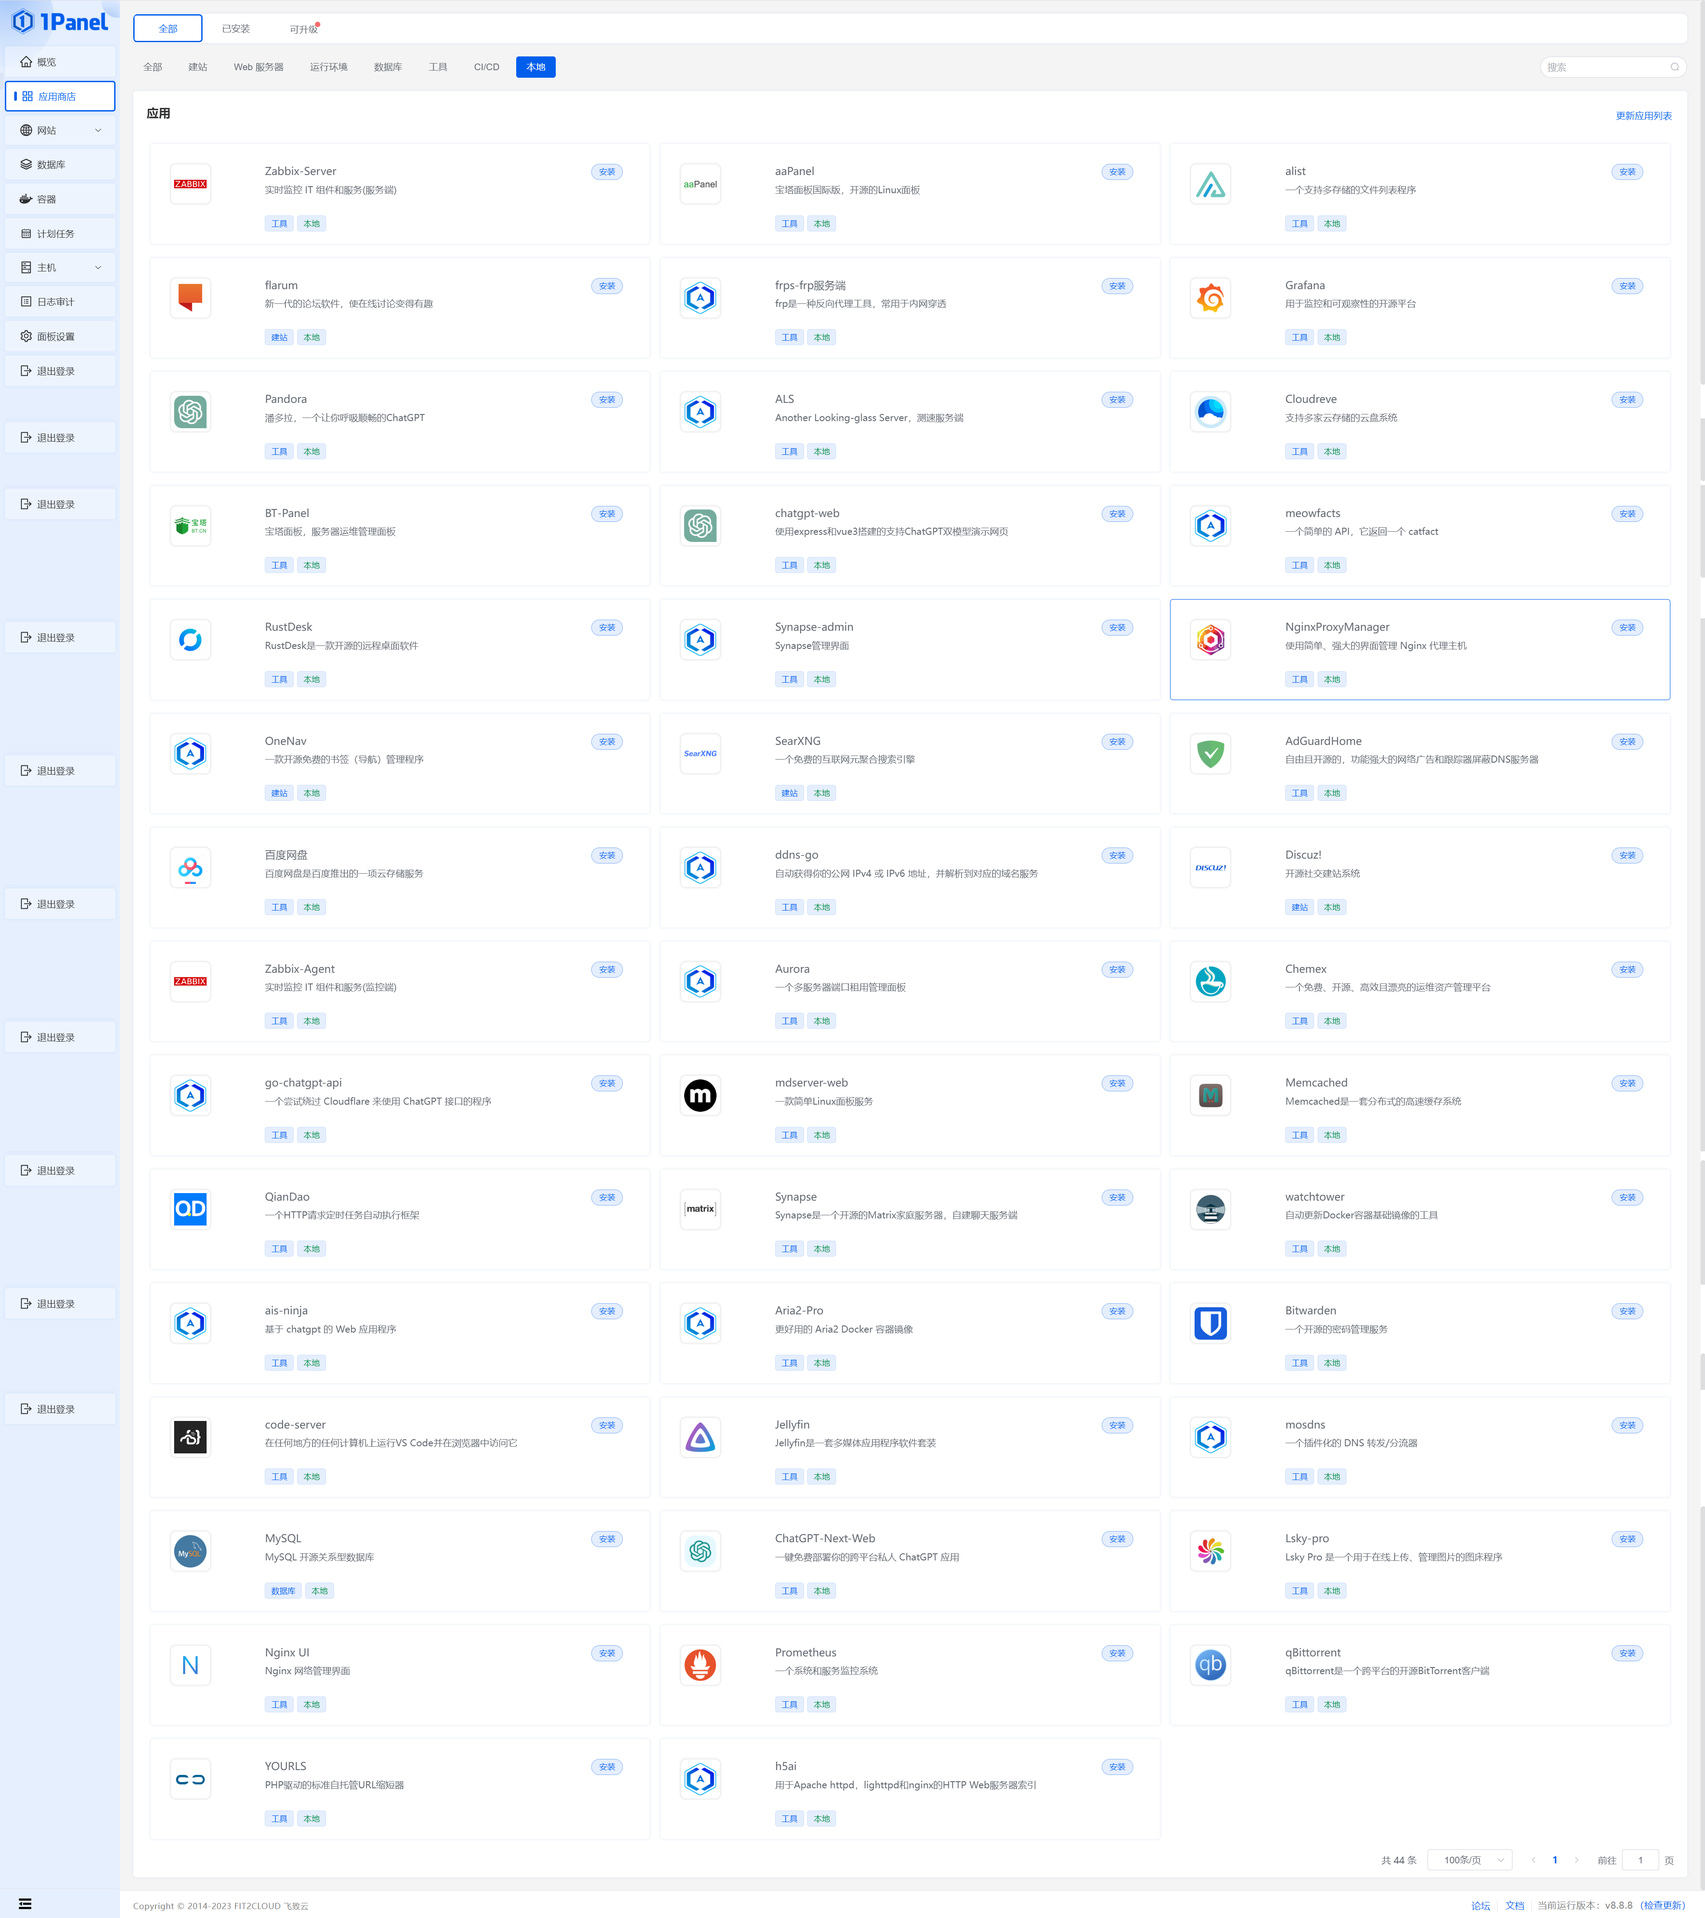
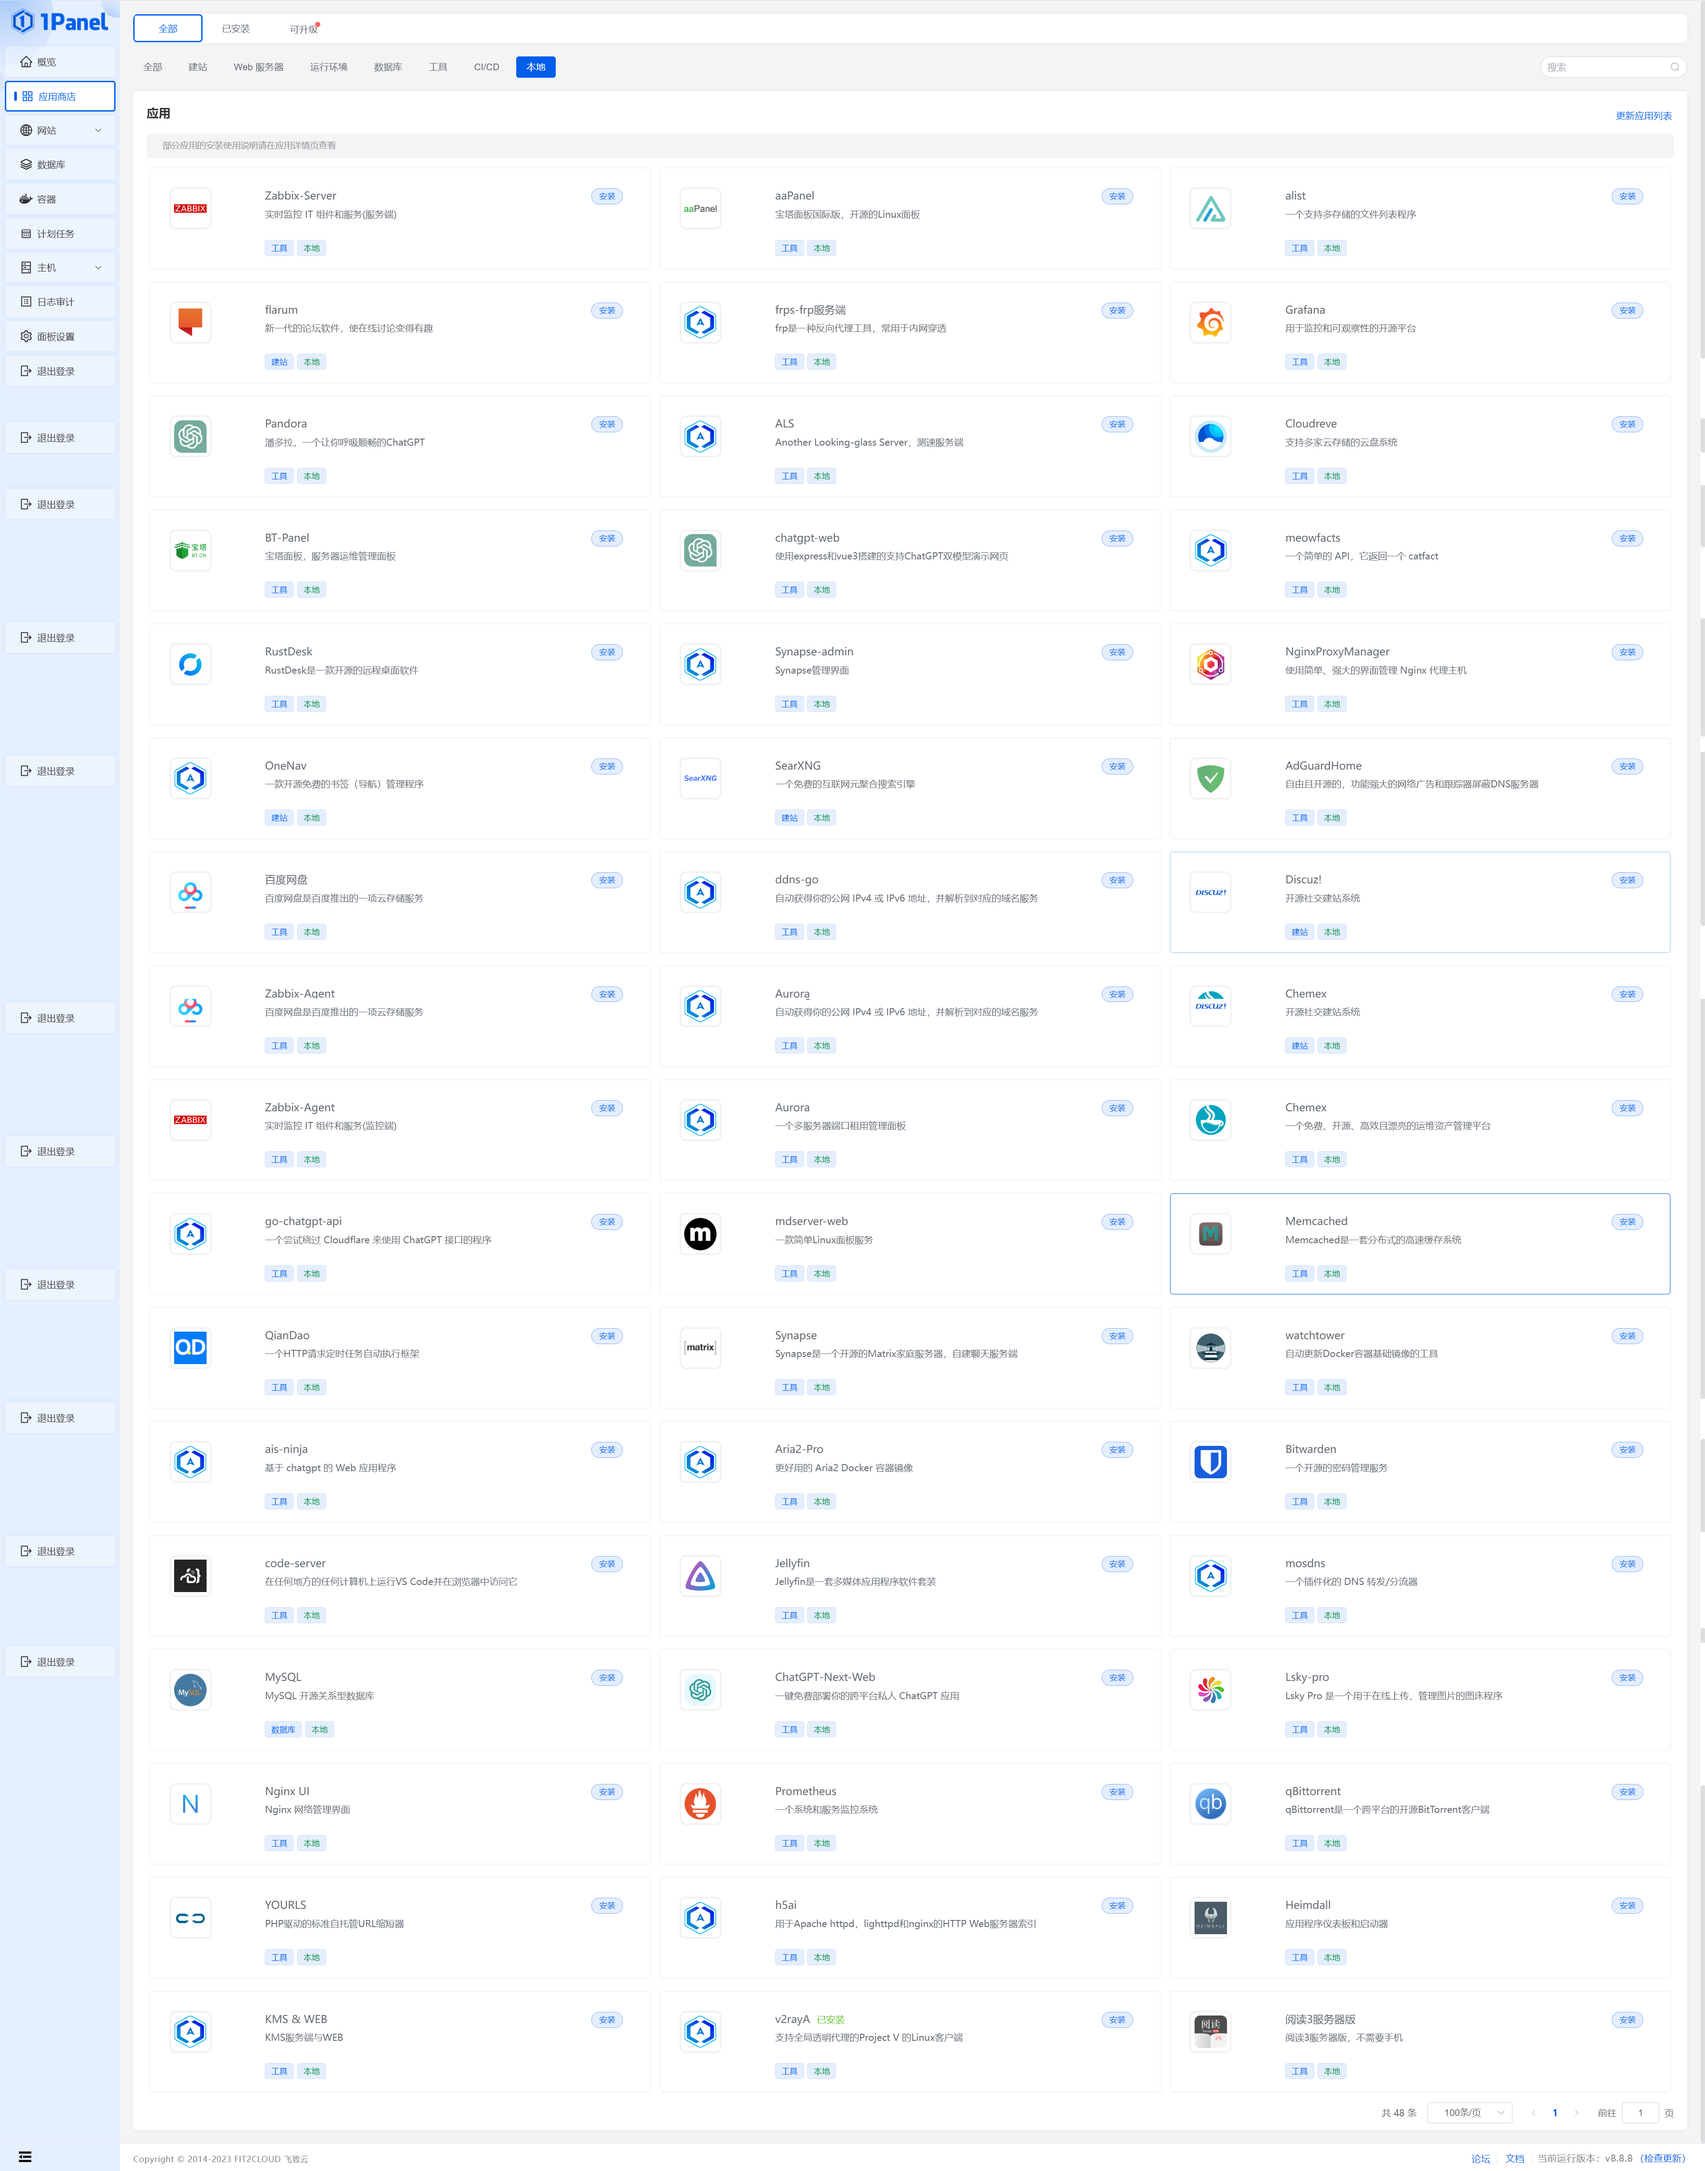
feat:添加阅读3服务器版到列表

diff --git a/apps/reader/README.md b/apps/reader/README.md
@@ -1,0 +1,87 @@
+# reader
+
+阅读3服务器版，不需要手机。
+
+在线体验 👉 [https://reader.htmake.com](https://reader.htmake.com)
+
+加入TG群(限时开放) 👉 [https://t.me/+pQ8HDlANPZ84ZWNl](https://t.me/+pQ8HDlANPZ84ZWNl)
+
+关注公众号，查看教程和书源👇
+
+![](https://raw.githubusercontent.com/hectorqin/reader/master/imgs/mpcode.png)
+
+> 注意❗
+>
+> Reader 完整源码仅开放到 v2.5.4，新版本当前仅开放部分开源源码，见 https://github.com/hectorqin/reader-legado.
+
+<details><summary>免责声明（Disclaimer）</summary>
+阅读是一款提供网络文学搜索的工具，为广大网络文学爱好者提供一种方便、快捷舒适的试读体验。
+
+当您搜索一本书的时，阅读会将该书的书名以关键词的形式提交到各个第三方网络文学网站。各第三方网站返回的内容与阅读无关，阅读对其概不负责，亦不承担任何法律责任。任何通过使用阅读而链接到的第三方网页均系他人制作或提供，您可能从第三方网页上获得其他服务，阅读对其合法性概不负责，亦不承担任何法律责任。第三方搜索引擎结果根据您提交的书名自动搜索获得并提供试读，不代表阅读赞成或被搜索链接到的第三方网页上的内容或立场。您应该对使用搜索引擎的结果自行承担风险。
+
+阅读不做任何形式的保证：不保证第三方搜索引擎的搜索结果满足您的要求，不保证搜索服务不中断，不保证搜索结果的安全性、正确性、及时性、合法性。因网络状况、通讯线路、第三方网站等任何原因而导致您不能正常使用阅读，阅读不承担任何法律责任。阅读尊重并保护所有使用阅读用户的个人隐私权，您注册的用户名、电子邮件地址等个人资料，非经您亲自许可或根据相关法律、法规的强制性规定，阅读不会主动地泄露给第三方。
+
+阅读致力于最大程度地减少网络文学阅读者在自行搜寻过程中的无意义的时间浪费，通过专业搜索展示不同网站中网络文学的最新章节。阅读在为广大小说爱好者提供方便、快捷舒适的试读体验的同时，也使优秀网络文学得以迅速、更广泛的传播，从而达到了在一定程度促进网络文学充分繁荣发展之目的。阅读鼓励广大小说爱好者通过阅读发现优秀网络小说及其提供商，并建议阅读正版图书。任何单位或个人认为通过阅读搜索链接到的第三方网页内容可能涉嫌侵犯其信息网络传播权，应该及时向阅读提出书面权力通知，并提供身份证明、权属证明及详细侵权情况证明。阅读在收到上述法律文件后，将会依法尽快断开相关链接内容。
+</details>
+
+<details><summary>功能说明</summary>
+  书源管理 <br/>
+- 书架管理 <br/>
+- 书架布局 <br/>
+- 搜索 <br/>
+- 书海 <br/>
+- 看书 <br/>
+- 移动端适配 <br/>
+- 换源 <br/>
+- 翻页方式 <br/>
+- 手势支持 <br/>
+- 自定义主题 <br/>
+- 自定义样式 <br/>
+- WebDAV同步 <br/>
+- 文字替换过滤 <br/>
+- 听书<仅部分浏览器支持，手机端会因为锁屏而失效> <br/>
+- 用户配置备份恢复 <br/>
+- 支持漫画 <br/>
+- 支持音频 <br/>
+- 书源失效检测 <br/>
+- 导入本地TXT、EPUB、UMD、PDF格式的书籍 <br/>
+- 书籍分组 <br/>
+- RSS订阅 <br/>
+- 定时更新书架 <br/>
+- 并发搜书 <br/>
+- 本地书仓 <br/>
+- 支持kindle阅读 <br/>
+</details>
+
+## 下载与安装
+
+详见[文档](https://github.com/hectorqin/reader/blob/master/doc.md)
+
+## TODO
+
+- [x] 定时更新书架书籍章节
+- [x] 多源并发搜索书籍
+- [x] 并发更新书架章节
+- [x] 并发搜索书籍来源
+- [x] WebDav同步
+- [x] 导入本地书籍，支持epub
+- [x] 阅读3核心兼容。已最大可能兼容，支持使用webview，支持使用javascript。
+- [x] 支持RSS订阅
+
+## 问题
+
+- 部分使用了 `Javascript` 的书源可能会报错，如调用原生java等高级Javascript功能
+- `webview` 功能需要另外部署接口，不支持 `sourceRegex` 匹配资源响应
+- 不支持书源登录功能
+
+## 感谢
+
+- 项目初期参考了 [lightink-小说API](https://github.com/lightink-qingmo/lightink-server)
+- [阅读](https://github.com/gedoor/MyBookshelf)
+- [阅读3.0](https://github.com/gedoor/legado)
+- 项目初期参考了 [阅读3.0Web端](https://github.com/celetor/web-yuedu3)
+
+## 其它
+
+- [帮助文档](https://github.com/hectorqin/reader/blob/master/doc.md)
+- [界面预览](https://github.com/hectorqin/reader/blob/master/preview.md)
